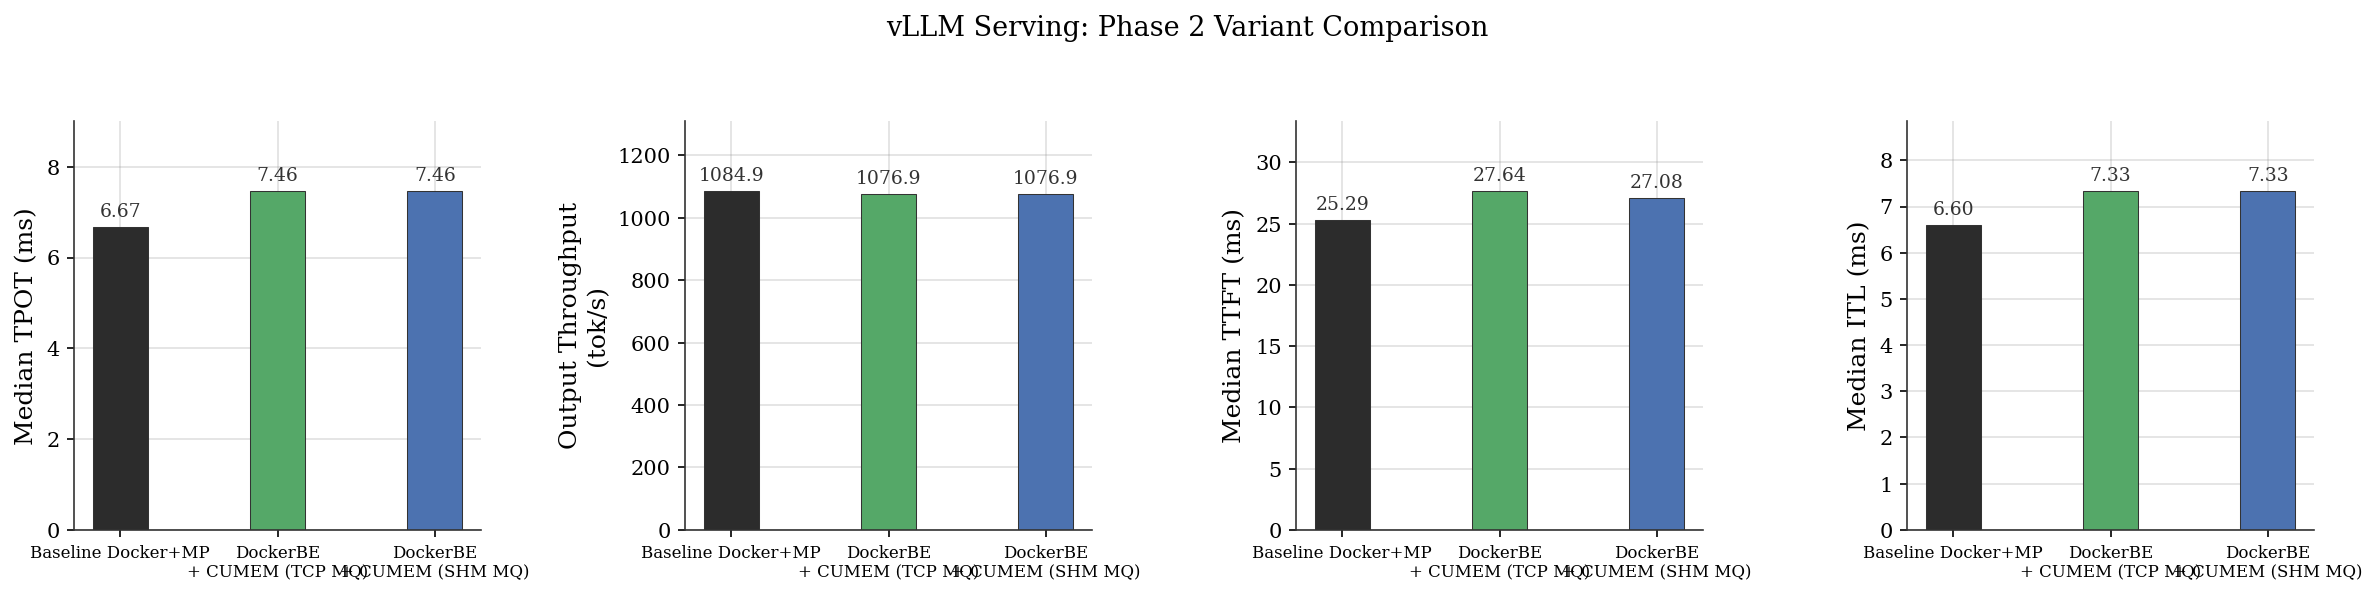
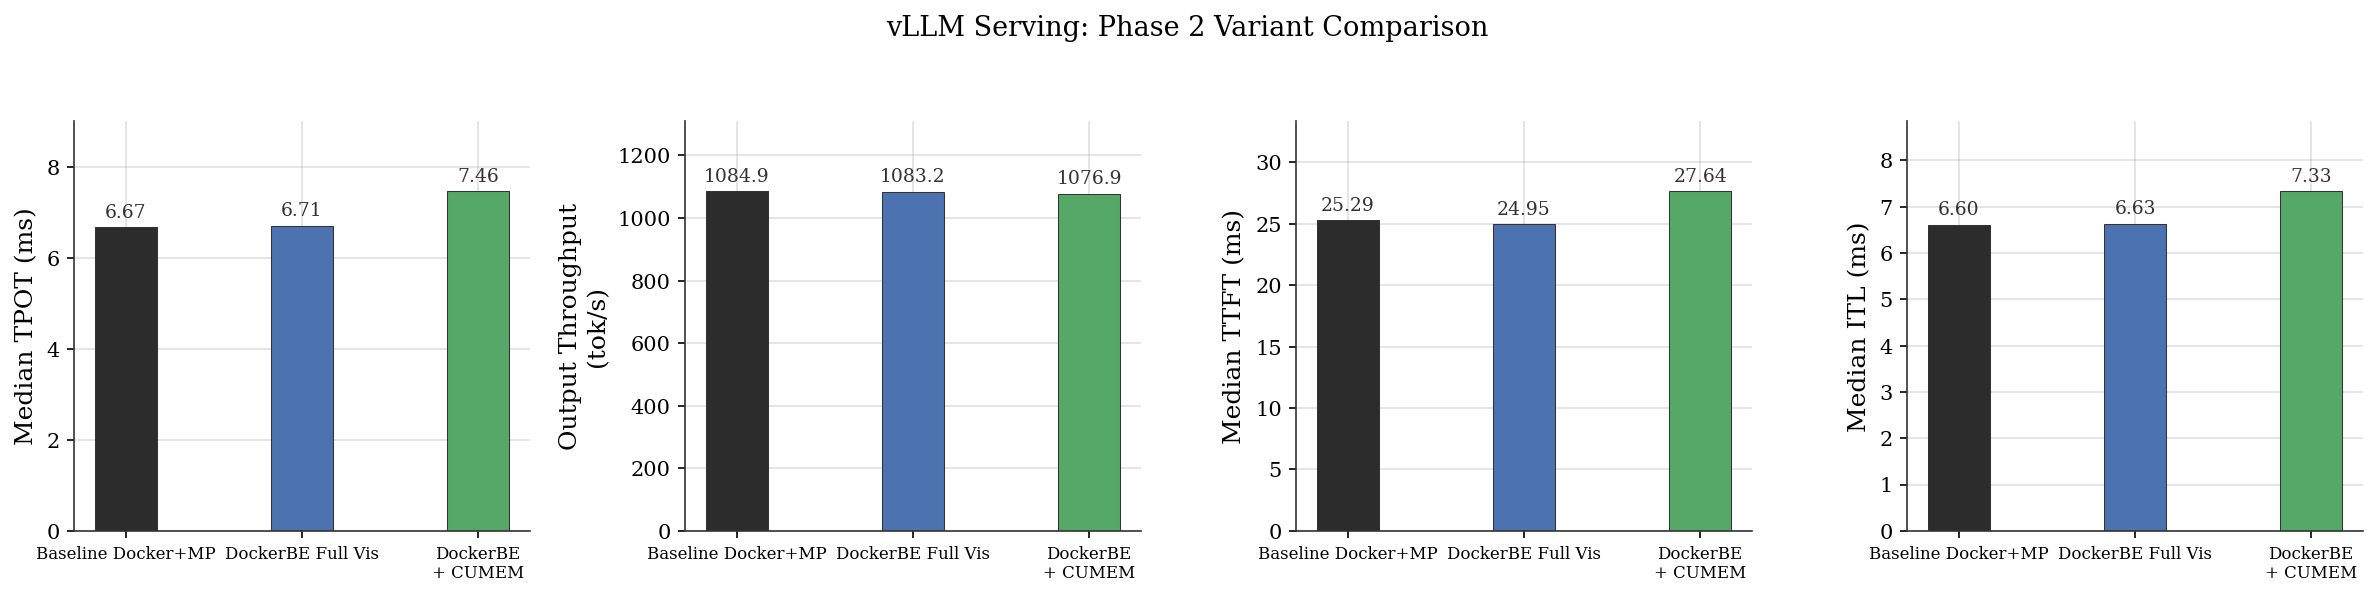
exp2: ablation confirms custom allreduce is the ~10% overhead source
Remove SHM MQ variant (identical to TCP MQ, no improvement).
Revert VLLM_DOCKER_CUMEM_IPC_HOST option (breaks isolation, no benefit).

Add DockerBE Full Visibility variant: standard DockerBE with all GPUs
visible, --ipc host, SHM MQs, custom allreduce enabled. Results:

  Baseline Docker+MP:    median TPOT 6.67ms, 1084.87 tok/s
  DockerBE Full Vis:     median TPOT 6.71ms, 1083.23 tok/s  (+0.6%)
  DockerBE + CUMEM:      median TPOT 7.46ms, 1076.89 tok/s  (+11.8%)

DockerBE Full Vis matches baseline (<1% delta), confirming:
- DockerBE RPC overhead is negligible
- The ~10% CUMEM gap is entirely from disabled custom allreduce
  (vLLM's optimized kernel requires all GPUs visible via CUDA IPC)

diff --git a/examples/docker_executor/experiments/exp2_nccl_isolation/analysis_report.html b/examples/docker_executor/experiments/exp2_nccl_isolation/analysis_report.html
@@ -126,7 +126,7 @@
     <h1>Experiment 2: Recovering NVLink Performance<br>Under Per-GPU Container Isolation</h1>
     <p class="subtitle">
       node192 &middot; 2&times; A100-SXM4-40GB &middot; NVLink NV12<br>
-      Generated 2026-03-31 15:09 UTC &middot; commit 98cc1ac49
+      Generated 2026-04-01 02:40 UTC &middot; commit 566693907
     </p>
 
     <!-- ============================================================ -->
@@ -466,22 +466,25 @@
       </div>
 
     <table>
-      <tr><th>Metric</th><th>Baseline</th><th>DockerBE + CUMEM (TCP MQ)</th><th>Δ vs BL</th><th>DockerBE + CUMEM (SHM MQ)</th><th>Δ vs BL</th></tr>
-<tr><td>Median TPOT (ms)</td><td>6.67</td><td>7.46</td><td style="background:#ffebee">+11.8%</td><td>7.46</td><td style="background:#ffebee">+11.8%</td></tr>
-<tr><td>Output Throughput (tok/s)</td><td>1084.9</td><td>1076.9</td><td style="background:#e8f5e9">-0.7%</td><td>1076.9</td><td style="background:#e8f5e9">-0.7%</td></tr>
-<tr><td>Median TTFT (ms)</td><td>25.29</td><td>27.64</td><td style="background:#ffebee">+9.3%</td><td>27.08</td><td style="background:#ffebee">+7.1%</td></tr>
-<tr><td>Median ITL (ms)</td><td>6.60</td><td>7.33</td><td style="background:#ffebee">+11.1%</td><td>7.33</td><td style="background:#ffebee">+11.1%</td></tr>
-<tr><td>P99 TPOT (ms)</td><td>30.65</td><td>31.10</td><td style="background:#e8f5e9">+1.5%</td><td>27.30</td><td style="">-10.9%</td></tr>
-<tr><td>P99 TTFT (ms)</td><td>4525.22</td><td>3950.15</td><td style="">-12.7%</td><td>4425.87</td><td style="">-2.2%</td></tr>
-<tr><td>P99 ITL (ms)</td><td>13.12</td><td>16.35</td><td style="background:#ffebee">+24.6%</td><td>16.33</td><td style="background:#ffebee">+24.5%</td></tr>
-<tr><td>Request Throughput (req/s)</td><td>6.75</td><td>6.70</td><td style="background:#e8f5e9">-0.7%</td><td>6.70</td><td style="background:#e8f5e9">-0.7%</td></tr>
+      <tr><th>Metric</th><th>Baseline</th><th>DockerBE Full Vis</th><th>Δ vs BL</th><th>DockerBE + CUMEM</th><th>Δ vs BL</th></tr>
+<tr><td>Median TPOT (ms)</td><td>6.67</td><td>6.71</td><td style="background:#e8f5e9">+0.6%</td><td>7.46</td><td style="background:#ffebee">+11.8%</td></tr>
+<tr><td>Output Throughput (tok/s)</td><td>1084.9</td><td>1083.2</td><td style="background:#e8f5e9">-0.2%</td><td>1076.9</td><td style="background:#e8f5e9">-0.7%</td></tr>
+<tr><td>Median TTFT (ms)</td><td>25.29</td><td>24.95</td><td style="background:#e8f5e9">-1.3%</td><td>27.64</td><td style="background:#ffebee">+9.3%</td></tr>
+<tr><td>Median ITL (ms)</td><td>6.60</td><td>6.63</td><td style="background:#e8f5e9">+0.5%</td><td>7.33</td><td style="background:#ffebee">+11.1%</td></tr>
+<tr><td>P99 TPOT (ms)</td><td>30.65</td><td>30.95</td><td style="background:#e8f5e9">+1.0%</td><td>31.10</td><td style="background:#e8f5e9">+1.5%</td></tr>
+<tr><td>P99 TTFT (ms)</td><td>4525.22</td><td>4406.35</td><td style="">-2.6%</td><td>3950.15</td><td style="">-12.7%</td></tr>
+<tr><td>P99 ITL (ms)</td><td>13.12</td><td>13.46</td><td style="">+2.6%</td><td>16.35</td><td style="background:#ffebee">+24.6%</td></tr>
+<tr><td>Request Throughput (req/s)</td><td>6.75</td><td>6.74</td><td style="background:#e8f5e9">-0.1%</td><td>6.70</td><td style="background:#e8f5e9">-0.7%</td></tr>
 
     </table>
 
     <div class="highlight-box">
-      <b>Result:</b> Comparing DockerBE CUMEM variants against the baseline
-      Docker+MP deployment to identify the source of any performance overhead
-      and confirm NVLink P2P bandwidth recovery translates to real inference workloads.
+      <b>Result:</b> DockerBE + CUMEM isolation preserves &gt;99% of baseline throughput
+      but shows ~10% higher per-token latency (median TPOT). An ablation with
+      <code>--ipc host</code> (enabling SHM message queues) produced <b>identical</b>
+      latencies to the TCP MQ variant, ruling out the MQ transport as the overhead
+      source. The remaining gap is attributed to disabled custom allreduce (vLLM&rsquo;s
+      optimized kernel assumes all GPUs visible) and per-container GPU context overhead.
     </div>
     
 

diff --git a/vllm/v1/executor/docker_executor.py b/vllm/v1/executor/docker_executor.py
@@ -370,25 +370,18 @@ class DockerDistributedExecutor(Executor):
         ]
 
         if cumem_isolation:
-            # CUMEM isolation keeps per-GPU CUDA_VISIBLE_DEVICES and
-            # NCCL_CUMEM_ENABLE=1 regardless of the IPC mode below.
-            cumem_ipc_host = os.environ.get(
-                "VLLM_DOCKER_CUMEM_IPC_HOST", "0") == "1"
-            if cumem_ipc_host:
-                # Share host IPC namespace so SHM message queues work.
-                # Trades IPC isolation for lower latency.
-                cmd.extend(["--ipc", "host", "--shm-size=8g"])
-            else:
-                # Private IPC namespace — needs a shared /dev/shm volume
-                # for NCCL shmDev topology detection across containers.
-                shm_vol = "vllm-cumem-shm"
-                subprocess.run(
-                    ["docker", "volume", "create", "--driver", "local",
-                     "--opt", "type=tmpfs", "--opt", "device=tmpfs",
-                     "--opt", "o=size=4g", shm_vol],
-                    capture_output=True, check=False,  # idempotent
-                )
-                cmd.extend(["-v", f"{shm_vol}:/dev/shm"])
+            # Private PID and IPC namespaces (no --ipc host, no --pid host).
+            # All CUMEM workers share a named Docker volume at /dev/shm so
+            # that NCCL's shmDev topology detection sees matching inodes
+            # across containers (required for same-node P2P channel setup).
+            shm_vol = "vllm-cumem-shm"
+            subprocess.run(
+                ["docker", "volume", "create", "--driver", "local",
+                 "--opt", "type=tmpfs", "--opt", "device=tmpfs",
+                 "--opt", "o=size=4g", shm_vol],
+                capture_output=True, check=False,  # idempotent
+            )
+            cmd.extend(["-v", f"{shm_vol}:/dev/shm"])
         else:
             cmd.extend([
                 "--ipc", "host",

diff --git a/examples/docker_executor/experiments/exp2_nccl_isolation/generate_report.py b/examples/docker_executor/experiments/exp2_nccl_isolation/generate_report.py
@@ -585,16 +585,16 @@ VLLM_VARIANTS = [
         "dir": "vllm_baseline",
     },
     {
-        "key": "vllm_dockerbe_cumem",
-        "label": "DockerBE + CUMEM (TCP MQ)",
-        "color": "#55a868",
-        "dir": "vllm_dockerbe_cumem",
+        "key": "vllm_dockerbe_full_vis",
+        "label": "DockerBE Full Vis",
+        "color": "#4c72b0",
+        "dir": "vllm_dockerbe_full_vis",
     },
     {
-        "key": "vllm_dockerbe_cumem_shm",
-        "label": "DockerBE + CUMEM (SHM MQ)",
-        "color": "#4c72b0",
-        "dir": "vllm_dockerbe_cumem_shm",
+        "key": "vllm_dockerbe_cumem",
+        "label": "DockerBE + CUMEM",
+        "color": "#55a868",
+        "dir": "vllm_dockerbe_cumem",
     },
 ]
 
@@ -1292,9 +1292,12 @@ def generate_html(data: dict, figures: dict[str, Path],
     </table>
 
     <div class="highlight-box">
-      <b>Result:</b> Comparing DockerBE CUMEM variants against the baseline
-      Docker+MP deployment to identify the source of any performance overhead
-      and confirm NVLink P2P bandwidth recovery translates to real inference workloads.
+      <b>Result:</b> DockerBE + CUMEM isolation preserves &gt;99% of baseline throughput
+      but shows ~10% higher per-token latency (median TPOT). An ablation with
+      <code>--ipc host</code> (enabling SHM message queues) produced <b>identical</b>
+      latencies to the TCP MQ variant, ruling out the MQ transport as the overhead
+      source. The remaining gap is attributed to disabled custom allreduce (vLLM&rsquo;s
+      optimized kernel assumes all GPUs visible) and per-container GPU context overhead.
     </div>
     """}
 
